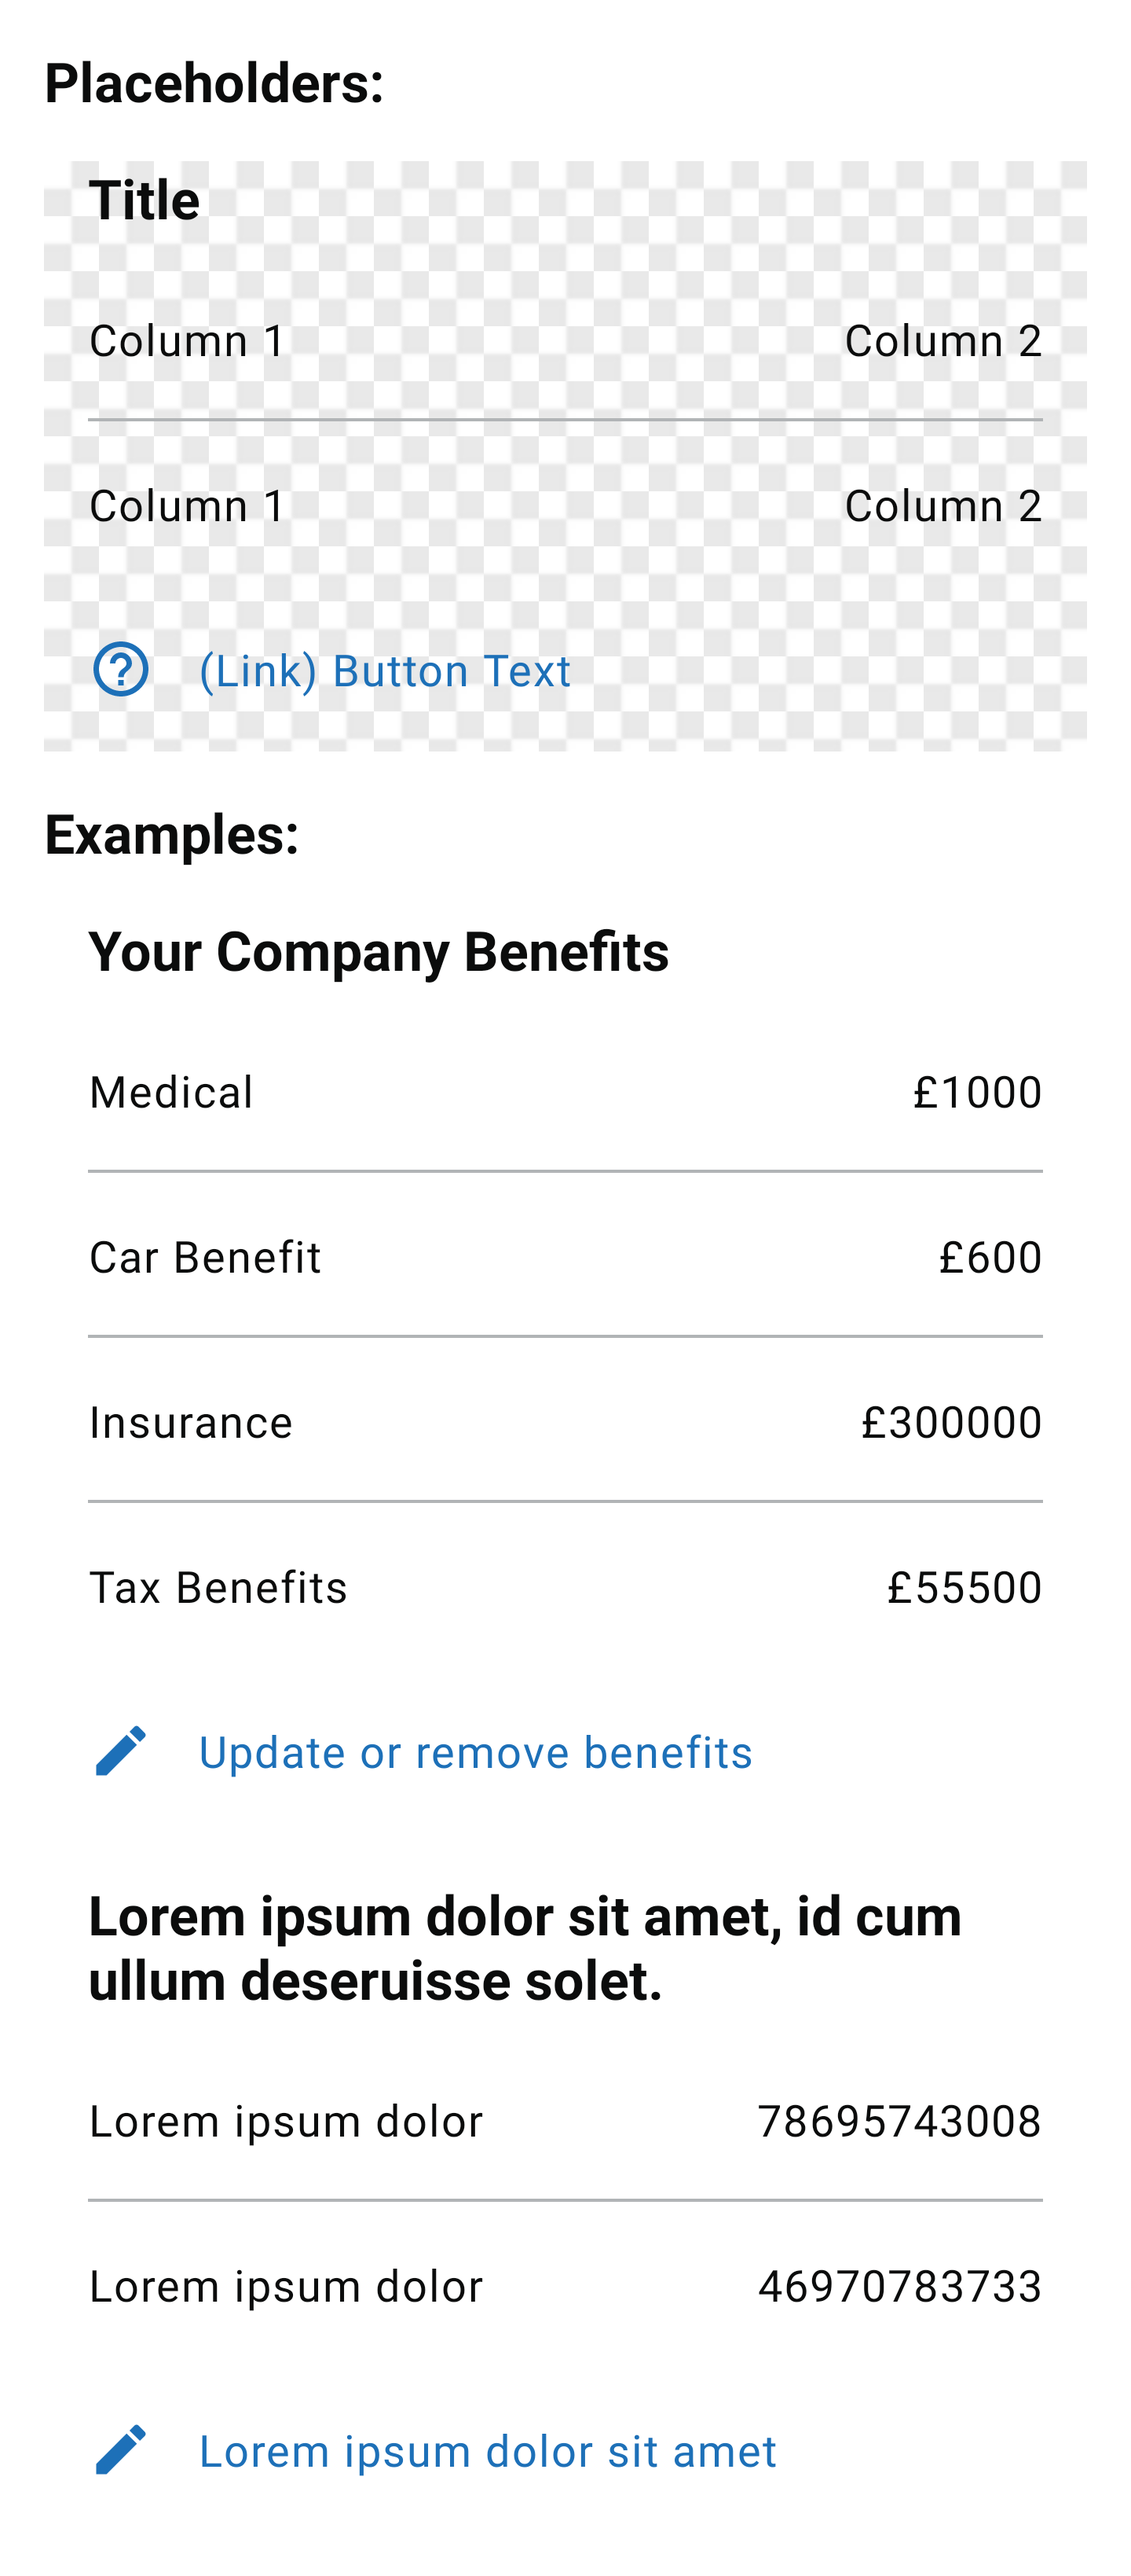
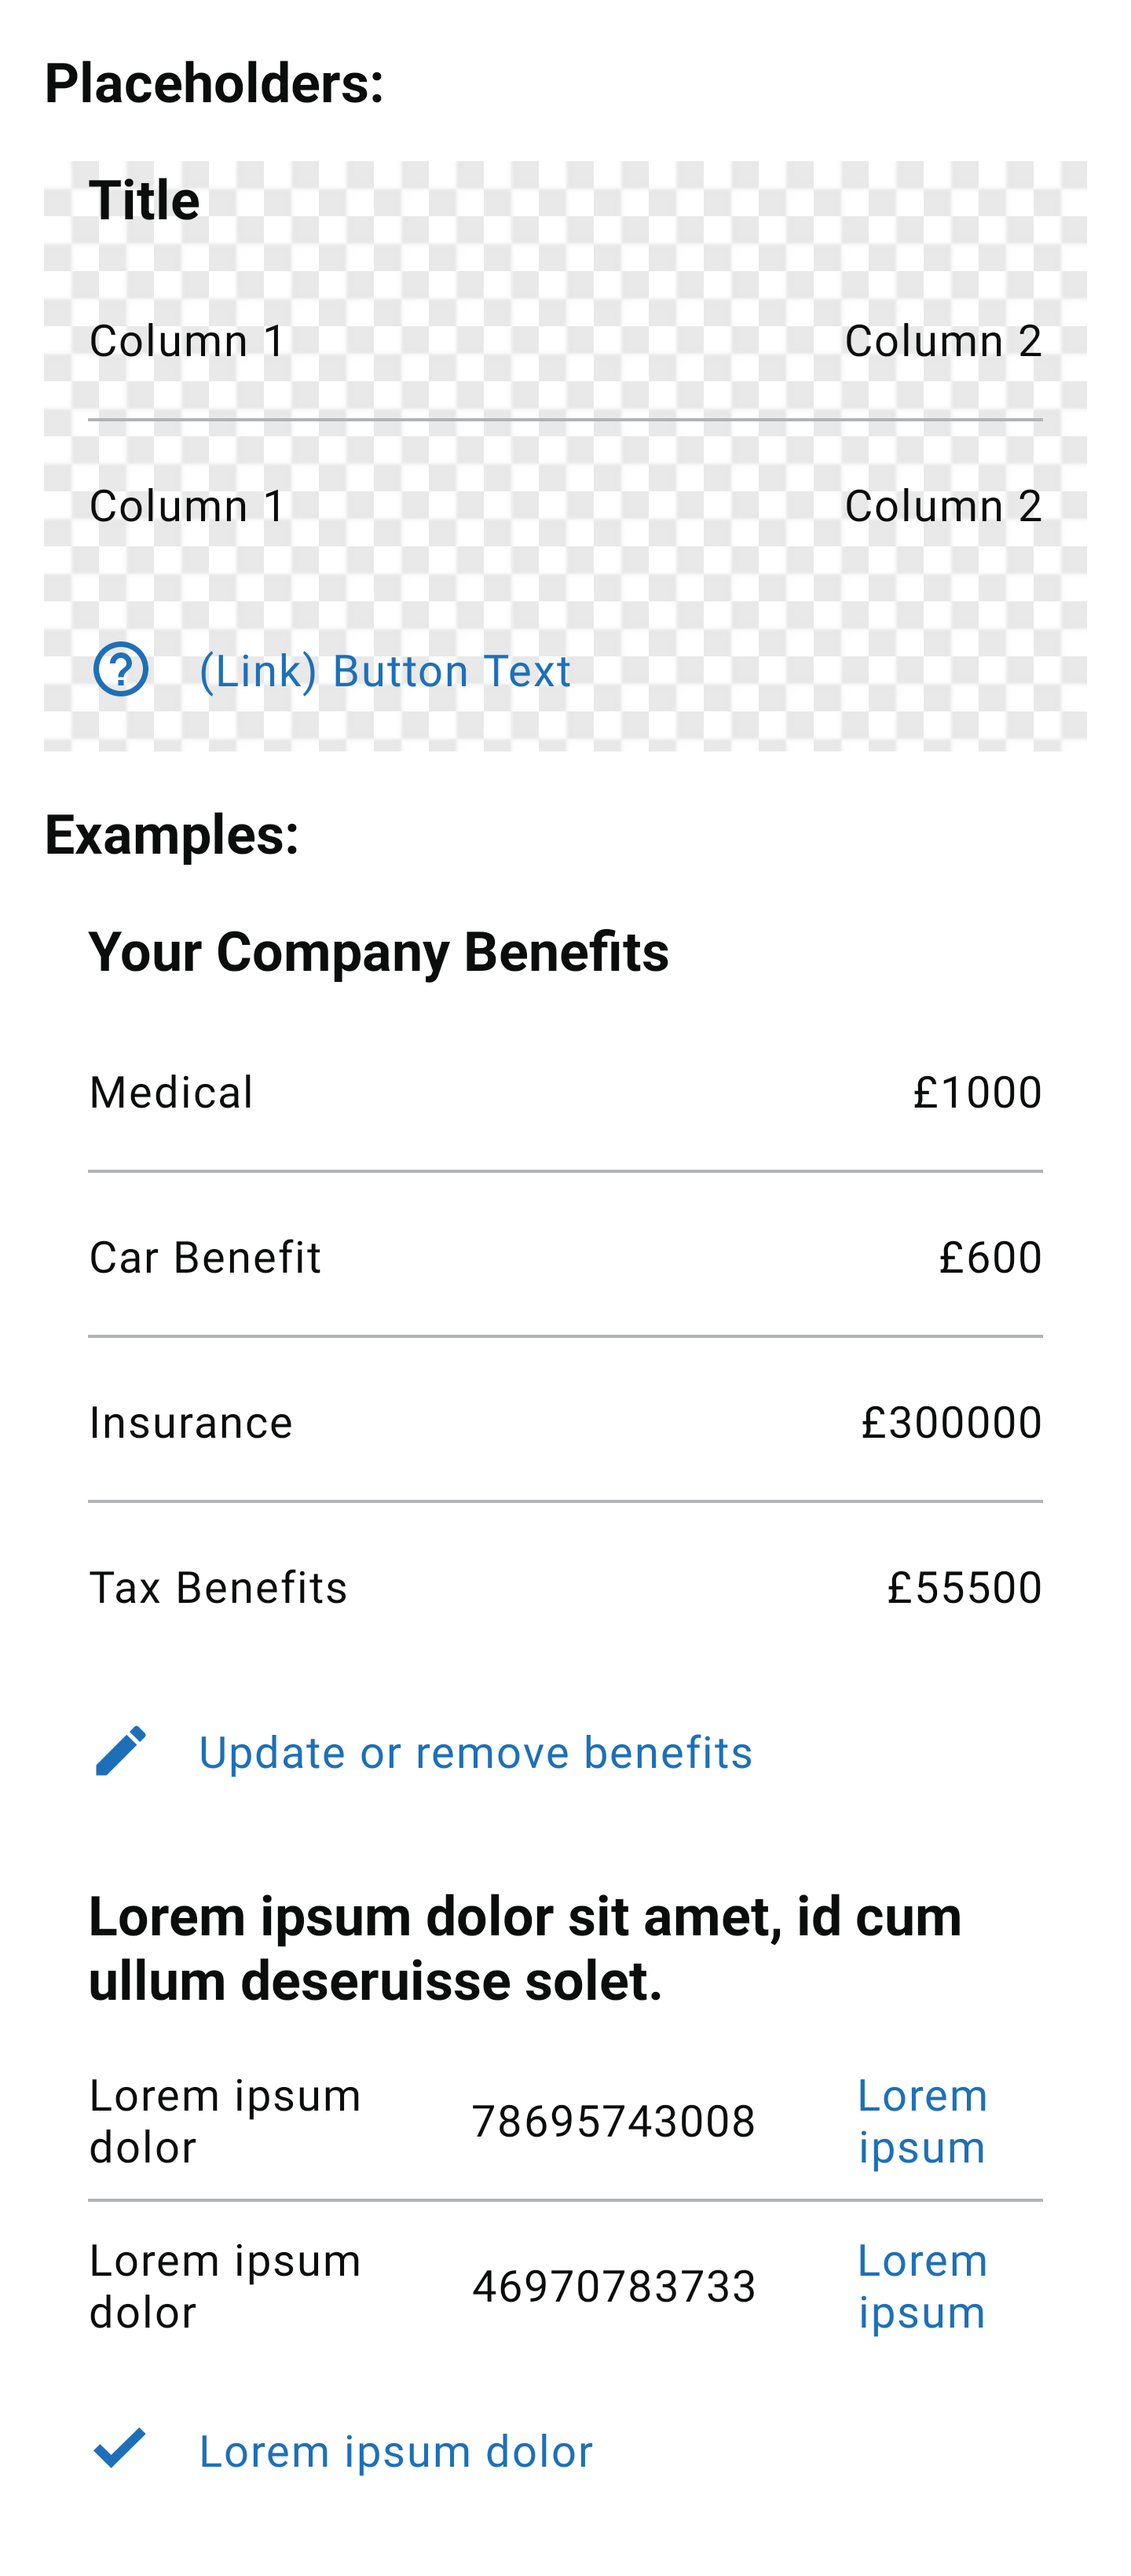
HMA-6567: Change EditableListView to allow consumer to control state (#130)
* HMA-6567: Change EditableListView to allow consumer to control state

* screenshot diff

diff --git a/components/src/main/java/uk/gov/hmrc/components/organism/editable/EditableListView.kt b/components/src/main/java/uk/gov/hmrc/components/organism/editable/EditableListView.kt
@@ -1,5 +1,5 @@
 /*
- * Copyright 2022 HM Revenue & Customs
+ * Copyright 2023 HM Revenue & Customs
  *
  * Licensed under the Apache License, Version 2.0 (the "License");
  * you may not use this file except in compliance with the License.
@@ -42,8 +42,7 @@ open class EditableListView @JvmOverloads constructor(
     private var buttonAccessibility: Pair<String, String> = Pair("", "")
     private var buttonIcon: Pair<Int, Int> = Pair(0, 0)
     private val editableListViewAdapter = EditableListViewAdapter()
-    var editMode = false
-        private set
+    private var editMode = false
 
     init {
         attrs?.let {
@@ -69,6 +68,13 @@ open class EditableListView @JvmOverloads constructor(
             adapter = editableListViewAdapter
             layoutManager = LinearLayoutManager(binding.root.context)
         }
+
+        attrs?.let {
+            val typedArray = context.theme.obtainStyledAttributes(it, R.styleable.EditableListView, 0, 0)
+            val inEditMode = typedArray.getBoolean(R.styleable.EditableListView_inEditMode, false)
+            setEditModeState(inEditMode)
+        }
+
         binding.title.id = Random.nextInt()
         setIconButtonClickListener(null)
         setFocusListener()
@@ -76,20 +82,26 @@ open class EditableListView @JvmOverloads constructor(
 
     fun setIconButtonClickListener(additionalClickListener: (() -> Unit)?) {
         binding.iconButton.setOnClickListener {
-            editableListViewAdapter.isEditEnabled = !editableListViewAdapter.isEditEnabled
-            setEditModeUI(!editMode)
+            setEditModeState(!editMode)
             additionalClickListener?.invoke()
         }
     }
 
     private fun setEditModeUI(isInEditMode: Boolean) {
         this.editMode = isInEditMode
+
         binding.iconButton.apply {
-            accessibilityTraversalBefore =
-                if (isInEditMode) binding.title.id else nextFocusForwardId
-            setIconResource(if (isInEditMode) buttonIcon.second else buttonIcon.first)
-            announceForAccessibility(if (isInEditMode) buttonAccessibility.second else buttonAccessibility.first)
-            text = if (isInEditMode) buttonText.second else buttonText.first
+            if (isInEditMode) {
+                accessibilityTraversalBefore = binding.title.id
+                setIconResource(buttonIcon.second)
+                announceForAccessibility(buttonAccessibility.second)
+                text = buttonText.second
+            } else {
+                accessibilityTraversalBefore = nextFocusForwardId
+                setIconResource(buttonIcon.first)
+                announceForAccessibility(buttonAccessibility.first)
+                text = buttonText.first
+            }
         }
     }
 
@@ -119,6 +131,11 @@ open class EditableListView @JvmOverloads constructor(
 
     fun setTitle(title: CharSequence?) {
         binding.title.text = title
+    }
+
+    fun setEditModeState(inEditMode: Boolean) {
+        editableListViewAdapter.isEditEnabled = inEditMode
+        setEditModeUI(inEditMode)
     }
 
     private fun setFocusListener() {

diff --git a/sample/src/main/java/uk/gov/hmrc/components/sample/organisms/EditableListViewFragment.kt b/sample/src/main/java/uk/gov/hmrc/components/sample/organisms/EditableListViewFragment.kt
@@ -144,6 +144,7 @@ class EditableListViewFragment : BaseComponentsFragment() {
                     getString(R.string.editable_list_view_example_2_accessibility_start),
                     getString(R.string.editable_list_view_example_2_accessibility_end)
                 )
+                setEditModeState(true)
             }
         }
     }

diff --git a/CHANGELOG.md b/CHANGELOG.md
@@ -16,6 +16,10 @@ Allowed headings:
 
 ## [Unreleased]
 
+### Changed
+
+* Changed `EditableListView` to allow consumer to control what state to show. 
+
 ## [4.8.0] - 2023-06-20
 
 ### Fixed
